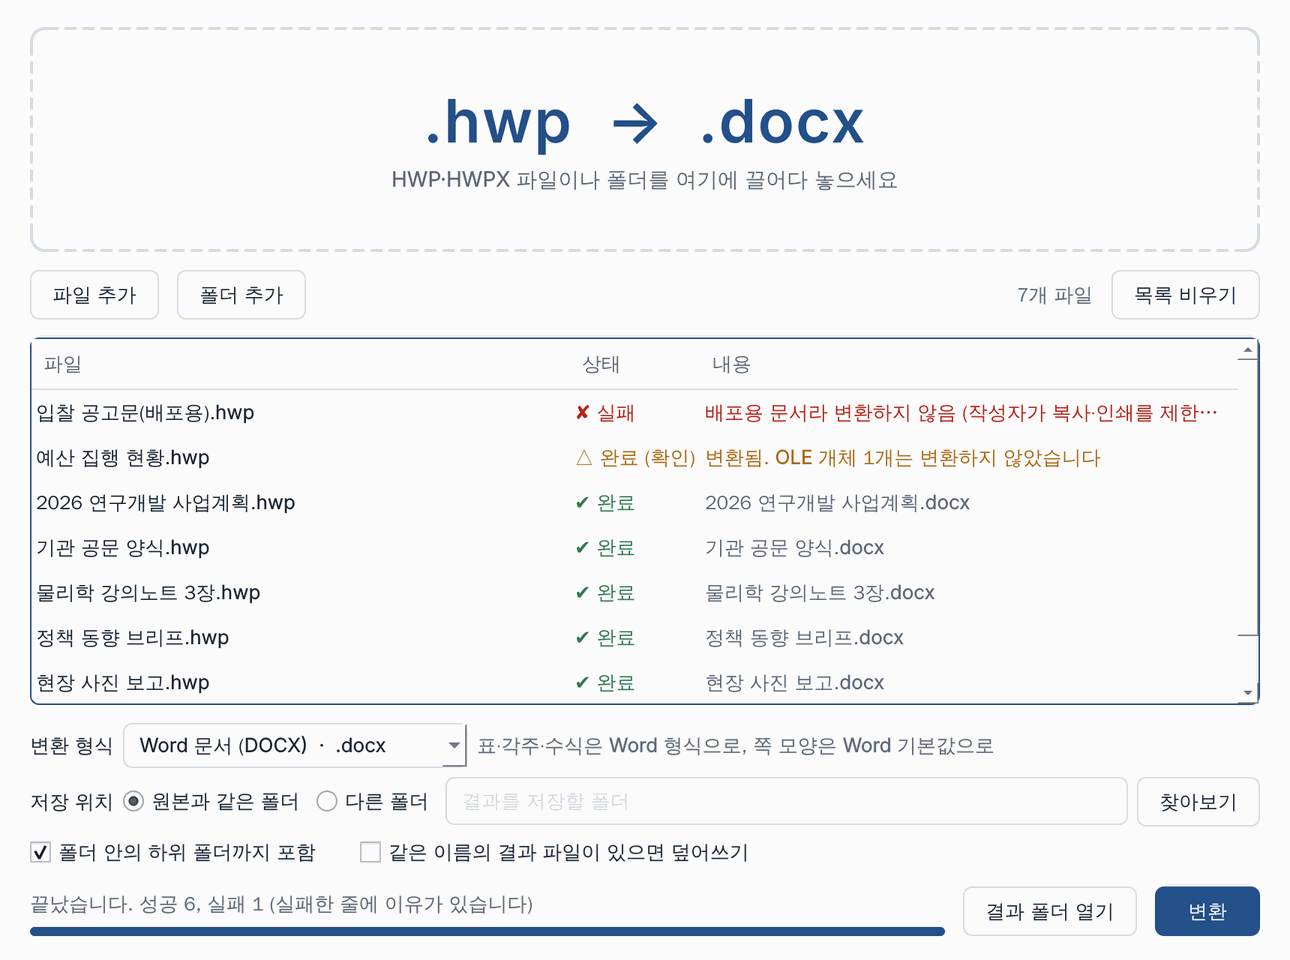
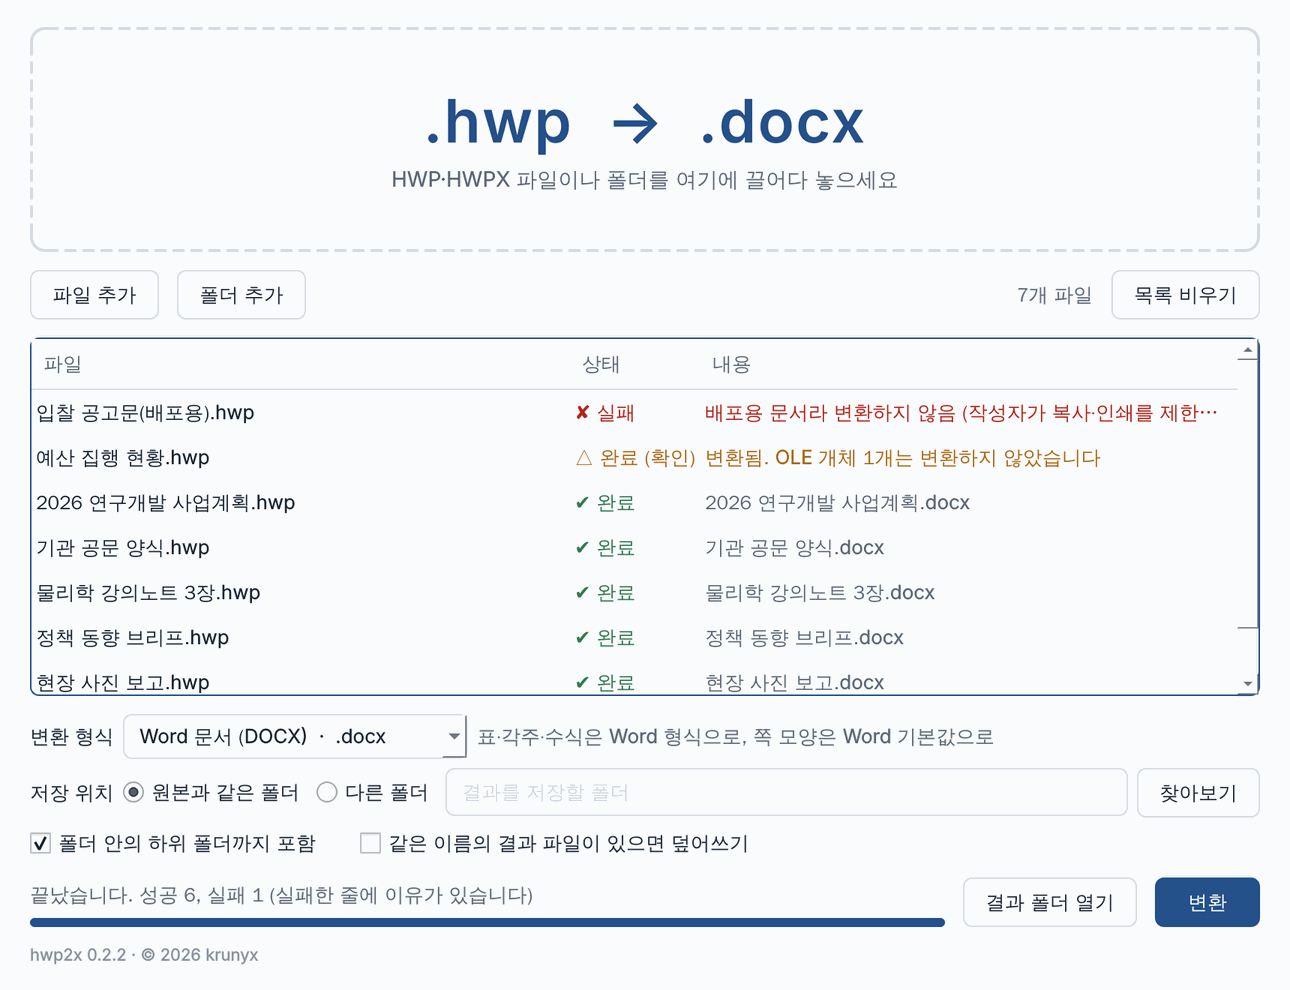
hwp2x v0.2.2: downloads, what's new, About window, Linux install.sh, new screenshots
Also stop the body font's contextual alternates from turning "2x 0" into "2× 0".

Claude-Session: https://claude.ai/code/session_01QmiKBoMewfEeaDB7xPPhuX

diff --git a/docs/assets/stylesheets/extra.css b/docs/assets/stylesheets/extra.css
@@ -424,3 +424,7 @@ body { word-break: keep-all; overflow-wrap: break-word; }
 /* ---------- 회사 소개: 로고 ---------- */
 .md-typeset .kx-brand { margin: 0.5rem 0 2rem; }
 .md-typeset .kx-brand img { height: 3.4rem; width: auto; }
+.md-typeset .kx-shot--small img, .md-typeset .kx-shot--small figcaption { max-width: 375px; }
+
+/* 본문 글꼴의 문맥 대체(calt)가 "2x 0"을 "2× 0"으로 바꾼다. 제품 이름 hwp2x가 깨지지 않게 끈다. */
+body { font-feature-settings: "calt" 0; }

diff --git a/docs/hwp2x/index.md b/docs/hwp2x/index.md
@@ -6,7 +6,7 @@ HWPX is the open, XML-based successor to the binary HWP format, and Korean publi
 hwp2x converts HWP files one at a time or a whole folder at once, on Windows, macOS and Linux.
 Java is bundled, so there is nothing else to install.
 
-[Download v0.2.1](#download){ .md-button .md-button--primary }
+[Download v0.2.2](#download){ .md-button .md-button--primary }
 [How to use](#use){ .md-button }
 [Report a problem](#feedback){ .md-button }
 
@@ -22,17 +22,26 @@ Java is bundled, so there is nothing else to install.
 
 ## Download { #download }
 
-The latest version is **v0.2.1** (November 2026). It is the version we recommend for everyone, whether you only need HWPX or want another format.
-[Release page](https://github.com/krunyx/hwp2x/releases/tag/v0.2.1)
+The latest version is **v0.2.2** (November 2026). It is the version we recommend for everyone, whether you only need HWPX or want another format.
+[Release page](https://github.com/krunyx/hwp2x/releases/tag/v0.2.2)
 
 | System | Download | Size |
 | --- | --- | --- |
-| Windows 10/11, 64-bit | [hwp2x-0.2.1-windows-x64.zip](https://github.com/krunyx/hwp2x/releases/download/v0.2.1/hwp2x-0.2.1-windows-x64.zip) | 67 MB |
-| macOS, Apple silicon (M1 and later) | [hwp2x-0.2.1-macos-arm64.dmg](https://github.com/krunyx/hwp2x/releases/download/v0.2.1/hwp2x-0.2.1-macos-arm64.dmg) | 60 MB |
-| macOS, Intel | [hwp2x-0.2.1-macos-x64.dmg](https://github.com/krunyx/hwp2x/releases/download/v0.2.1/hwp2x-0.2.1-macos-x64.dmg) | 64 MB |
-| Linux, 64-bit | [hwp2x-0.2.1-linux-x64.tar.gz](https://github.com/krunyx/hwp2x/releases/download/v0.2.1/hwp2x-0.2.1-linux-x64.tar.gz) | 102 MB |
+| Windows 10/11, 64-bit | [hwp2x-0.2.2-windows-x64.zip](https://github.com/krunyx/hwp2x/releases/download/v0.2.2/hwp2x-0.2.2-windows-x64.zip) | 67 MB |
+| macOS, Apple silicon (M1 and later) | [hwp2x-0.2.2-macos-arm64.dmg](https://github.com/krunyx/hwp2x/releases/download/v0.2.2/hwp2x-0.2.2-macos-arm64.dmg) | 60 MB |
+| macOS, Intel | [hwp2x-0.2.2-macos-x64.dmg](https://github.com/krunyx/hwp2x/releases/download/v0.2.2/hwp2x-0.2.2-macos-x64.dmg) | 64 MB |
+| Linux, 64-bit | [hwp2x-0.2.2-linux-x64.tar.gz](https://github.com/krunyx/hwp2x/releases/download/v0.2.2/hwp2x-0.2.2-linux-x64.tar.gz) | 103 MB |
 
-### What's new in v0.2.1 { #whats-new }
+### What's new { #whats-new }
+
+**v0.2.2**
+
+- The bottom of the window shows the version and copyright (hwp2x 0.2.2 · © 2026 krunyx). Click it to open **프로그램 정보** (About), with links to krunyx.com, the source code and the latest version, and the open-source notices.
+  On macOS it is also in the app menu as **hwp2x에 관하여** (About hwp2x).
+- The app has the krunyx icon. On Windows the version and copyright appear in the exe's **Properties → Details**; on macOS in Finder's **Get Info**.
+- On Linux, `install.sh` adds hwp2x to your application menu.
+
+**v0.2.1**
 
 - **Long documents now convert.** Documents of several hundred pages could fail because the converter ran out of memory.
   It now processes a document in parts and needs about a quarter of the memory it did
@@ -66,9 +75,13 @@ v0.2.0 added Word, Markdown, HTML, LaTeX and HyperTeX output, `.hwpx` input and 
 
     ```bash
     tar xzf hwp2x-*-linux-x64.tar.gz
+    ./hwp2x/install.sh       # optional: add hwp2x to your application menu
     ./hwp2x/hwp2x-gui        # the app
     ./hwp2x/hwp2x --help     # the command line
     ```
+
+    `install.sh` adds a menu entry for your user only and needs no administrator rights.
+    It points to the unpacked folder, so keep the folder where it is, or run `install.sh` again after moving it.
 
     Requires glibc 2.35 or later (Ubuntu 22.04 and newer).
     On a minimal system install `libegl1` and `libxkbcommon0`, and a Korean font such as `fonts-noto-cjk` so file names display correctly.
@@ -119,6 +132,14 @@ Double-click a row to open its result.
 | △ 완료 (확인) | Converted, but check it. The message says why: for example, a chart (OLE object) that cannot be carried into the chosen format, or a font name with characters XML does not allow. |
 | – 건너뜀 | Skipped, because a result file with that name already exists |
 | ✘ 실패 | Not converted. The reason is shown next to it, such as a [distribution document](#limits). |
+
+The line at the very bottom shows the version, for example **hwp2x 0.2.2 · © 2026 krunyx**.
+Click it to open **프로그램 정보** (About), which links to this site, the source code and **최신 버전 확인** (Check for the latest version).
+
+<figure class="kx-shot kx-shot--small" markdown>
+[![The hwp2x About window: krunyx logo, hwp2x version 0.2.2, a one-line description, copyright and license, links to krunyx.com, the source code and the latest version, and the open-source components it uses](../assets/images/hwp2x/app-about.png){ width="375" loading="lazy" }](../assets/images/hwp2x/app-about.png)
+<figcaption>The About window.</figcaption>
+</figure>
 
 ### The command line
 
@@ -201,10 +222,11 @@ HyperTeX has no vertical cell merging or strikethrough, so merged cells keep the
 !!! warning "v0.1.0 cannot convert long documents"
     v0.1.0 converts only to HWPX and loads the whole document into memory at once,
     so documents of a few hundred pages or more can fail with an out-of-memory error.
-    **Please use the latest version, [v0.2.1](#download).** It makes exactly the same HWPX files, since HWPX is still its default output, and handles long documents.
+    **Please use the latest version, [v0.2.2](#download).** It makes exactly the same HWPX files, since HWPX is still its default output, and handles long documents.
 
 Older releases stay available on GitHub for reference:
-[v0.2.0](https://github.com/krunyx/hwp2x/releases/tag/v0.2.0) (first version with other formats; replaced by v0.2.1) and
+[v0.2.1](https://github.com/krunyx/hwp2x/releases/tag/v0.2.1),
+[v0.2.0](https://github.com/krunyx/hwp2x/releases/tag/v0.2.0) (first version with other formats) and
 [v0.1.0](https://github.com/krunyx/hwp2x/releases/tag/v0.1.0) (HWPX only).
 
 ## Report a problem or send feedback { #feedback }
@@ -230,7 +252,7 @@ otherwise a description, or a copy with the text replaced, is enough.
 hwp2x is released under the [Apache License 2.0](https://github.com/krunyx/hwp2x/blob/main/LICENSE).
 The conversion engine is built from neolord0's [hwplib](https://github.com/neolord0/hwplib),
 [hwpxlib](https://github.com/neolord0/hwpxlib) and [hwp2hwpx](https://github.com/neolord0/hwp2hwpx), all Apache-2.0.
-The bundled Java runtime is OpenJDK (GPLv2 with the Classpath Exception), and Pillow (HPND license) is used for image conversion.
+The bundled Java runtime is OpenJDK (GPLv2 with the Classpath Exception). The app window uses Qt for Python (LGPLv3), and Pillow (HPND license) is used for image conversion. The same notices are in the app's About window.
 
 “본 제품은 한글과컴퓨터의 HWP 문서 파일(.hwp) 공개 문서를 참고하여 개발하였습니다.”
 <br><small>(This product was developed with reference to Hancom's published HWP document file format specification.)</small>

diff --git a/docs/index.md b/docs/index.md
@@ -99,7 +99,7 @@ Korean documents still sit in the binary HWP format, while institutions move to 
 hwp2x converts them one file or a whole folder at a time, on Windows, macOS and Linux.
 
 It makes a faithful HWPX copy by default, and can also make a first draft in Word, Markdown, HTML, LaTeX or HyperTeX, with equations translated.
-The latest version, v0.2.1, handles documents of hundreds or thousands of pages.
+The latest version, v0.2.2, handles documents of hundreds or thousands of pages.
 
 [Download hwp2x](hwp2x/index.md#download){ .md-button .md-button--primary }
 [How to use](hwp2x/index.md#use){ .md-button }
